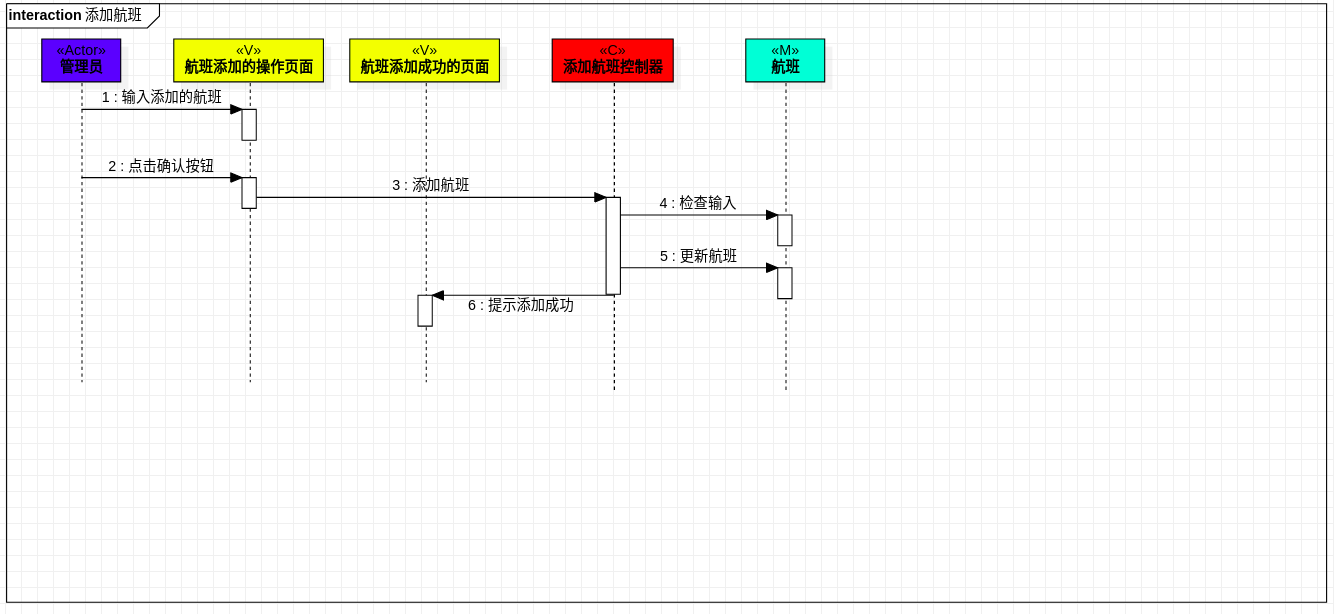
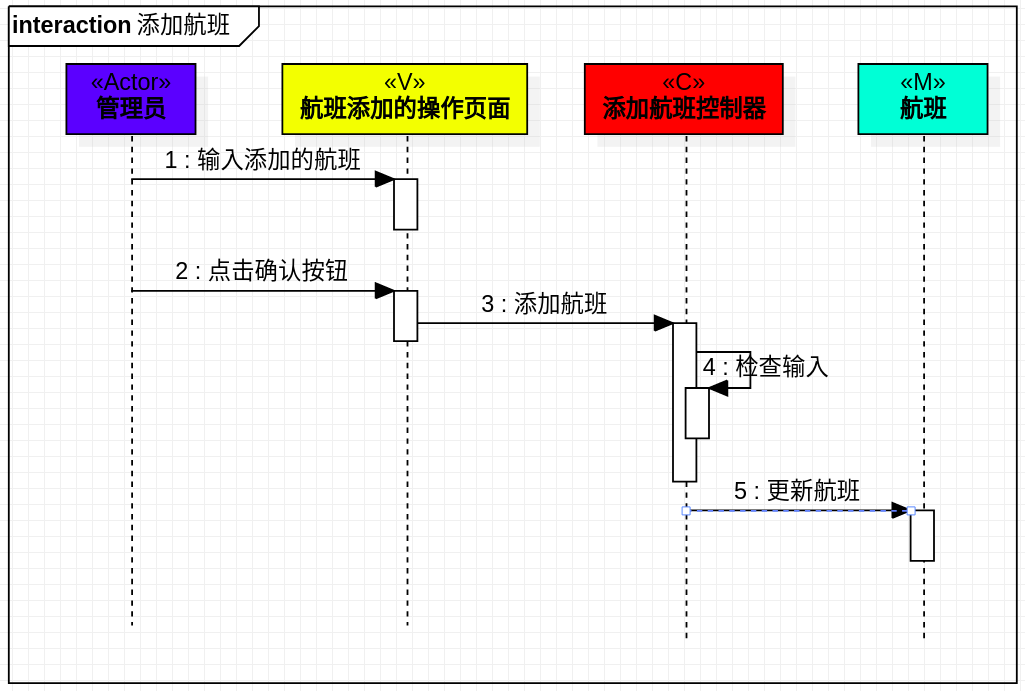
Update Lab6

Changed region(s): [[0.0, 0.0, 0.999, 0.9902], [0.1249, 0.3713, 0.4059, 0.4332], [0.8741, 0.8046, 0.9054, 0.8355]]

diff --git a/students/1714080901141/lab6.md b/students/1714080901141/lab6.md
@@ -31,6 +31,8 @@
 1.2.2 实验要求及注意事项
 - 顺序图和用例图的数量要相等。
 - 总集里面有分集的时间表示，可以跳时间分开看。
+- 检查不是在模型上进行的，修改的地方可以在下一个实验提交的时候提交，注意标明"#N"。
+- 要把方框缩小一些，截图就不会太小，也可规避显示有点模糊的现象。
 
 1.2.3 视频演示收获
 - 先找到第一个参与者（一般是系统外的用户），然后根据类图（lab3）找到N个参与者，最后结合活动图传递消息。注意期间可能需要改进类图和活动图。
